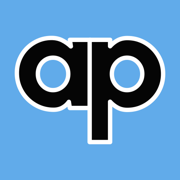
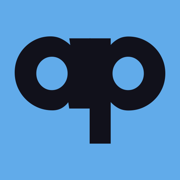
feat(www): apply approved three-color brand system
Implement Brand commit 10ab071 with semantic display, interaction, focus, surface, border, and muted roles. Replace bordered public marks with exact flat exports and remove retired aliases so light and dark public surfaces keep the approved contrast hierarchy.

Changed region(s): [[0.0556, 0.1944, 0.9444, 0.8056], [0.1667, 0.2778, 0.4167, 0.5278], [0.5833, 0.2778, 0.8333, 0.5278]]

diff --git a/apps/www/src/styles/global.css b/apps/www/src/styles/global.css
@@ -1,7 +1,6 @@
 @import "@anipotts/styles/tokens-www.css";
 @import "@fontsource-variable/instrument-sans";
 @import "@fontsource/urbanist/latin-900.css";
-@import "@fontsource/geist-sans";
 @import "@fontsource-variable/jetbrains-mono";
 
 :root {
@@ -17,10 +16,10 @@
   --astro-code-token-comment: var(--ink-muted);
   --astro-code-token-keyword: var(--ink-muted);
   --astro-code-token-parameter: var(--ink);
-  --astro-code-token-function: var(--accent);
+  --astro-code-token-function: var(--interactive);
   --astro-code-token-string-expression: var(--ink-muted);
   --astro-code-token-punctuation: var(--ink-muted);
-  --astro-code-token-link: var(--accent);
+  --astro-code-token-link: var(--interactive);
 }
 
 * {
@@ -51,8 +50,8 @@ body {
 }
 
 ::selection {
-  background: var(--accent);
-  color: var(--bg);
+  background: var(--interactive);
+  color: var(--interactive-ink);
 }
 
 a {
@@ -68,6 +67,10 @@ h3 {
   margin: 0;
   letter-spacing: 0;
   font-synthesis: none;
+}
+
+h1 {
+  color: var(--brand-display);
 }
 
 /* one orchestrated reveal on first paint. opacity:0 stays INSIDE the
@@ -131,6 +134,10 @@ h3 {
   color: var(--ink-muted);
 }
 
+h2.section-label {
+  color: var(--ink);
+}
+
 .hero-title {
   font-size: var(--p-hero);
   letter-spacing: 0;
@@ -155,7 +162,7 @@ h3 {
 }
 
 .accent-link {
-  color: var(--accent);
+  color: var(--interactive);
   text-decoration: none;
 }
 
@@ -172,7 +179,7 @@ h3 {
 }
 
 .quiet-link:hover {
-  color: var(--accent);
+  color: var(--interactive);
 }
 
 /* post-list row: fill on hover marks the row, never a line */
@@ -190,7 +197,7 @@ h3 {
 }
 
 .row-link:hover .row-title {
-  color: var(--accent);
+  color: var(--ink);
 }
 
 .row-title {
@@ -211,8 +218,8 @@ h3 {
 
 .pill {
   display: inline-block;
-  background: var(--accent-soft);
-  color: var(--accent);
+  background: var(--surface);
+  color: var(--ink);
   border-radius: 99px;
   padding: 0.15rem 0.6rem;
   font-family: var(--sans);
@@ -266,19 +273,19 @@ h3 {
 
 .field:focus {
   outline: none;
-  box-shadow: 0 0 0 2px var(--accent);
+  box-shadow: 0 0 0 2px var(--focus);
 }
 
 .field::placeholder {
   color: var(--ink-muted);
 }
 
-button.fill {
+.fill {
   font-family: var(--sans);
   font-weight: 500;
   font-size: var(--p-small);
-  background: var(--accent);
-  color: var(--bg);
+  background: var(--interactive);
+  color: var(--interactive-ink);
   border: 0;
   border-radius: 0.5rem;
   min-height: 44px;
@@ -305,8 +312,8 @@ button.fill:disabled {
 }
 
 .chip[aria-pressed="true"] {
-  background: var(--accent-soft);
-  color: var(--accent);
+  background: var(--interactive);
+  color: var(--interactive-ink);
 }
 
 @media (max-width: 720px) {
@@ -364,7 +371,7 @@ button.fill:disabled {
 }
 
 .article-body a {
-  color: var(--accent);
+  color: var(--interactive);
   text-decoration: underline;
   text-underline-offset: 0.18em;
   text-decoration-thickness: 0.06em;

diff --git a/packages/styles/src/tokens-www.css b/packages/styles/src/tokens-www.css
@@ -3,6 +3,10 @@
    code and technical data. Urbanist remains inside the exported brand assets. */
 
 :root {
+  --brand-dark-blue: #11111b;
+  --brand-blue: #61abea;
+  --brand-white: #ffffff;
+
   --sans:
     "Instrument Sans Variable", "Instrument Sans", -apple-system,
     BlinkMacSystemFont, "SF Pro Text", system-ui, sans-serif;
@@ -10,13 +14,18 @@
     "JetBrains Mono Variable", "JetBrains Mono", ui-monospace, "SF Mono", Menlo,
     monospace;
 
-  --bg: #ffffff;
-  --surface: #f4f4f4;
-  --ink: #050505;
-  --ink-muted: #5f5f5f;
-  --accent: #61abea;
-  --accent-soft: rgba(97, 171, 234, 0.14);
-  --border: rgba(5, 5, 5, 0.12);
+  --bg: var(--brand-white);
+  --ink: var(--brand-dark-blue);
+  --brand-display: var(--brand-dark-blue);
+  --interactive: var(--brand-dark-blue);
+  --interactive-ink: var(--brand-white);
+  --focus: var(--brand-dark-blue);
+  --ink-muted: color-mix(in srgb, var(--ink) 64%, transparent);
+  --surface: color-mix(in srgb, var(--brand-dark-blue) 4%, var(--brand-white));
+  --border: color-mix(in srgb, var(--ink) 14%, transparent);
+  --border-strong: color-mix(in srgb, var(--ink) 28%, transparent);
+  --accent: var(--brand-blue);
+  --accent-soft: color-mix(in srgb, var(--brand-blue) 14%, transparent);
 
   --p-h1: clamp(2rem, 4vw, 2.9rem);
   --p-h2: clamp(1.5rem, 3vw, 2rem);
@@ -40,18 +49,16 @@
   --lh-tight: 1.1;
 }
 
-:root[data-font="geist"] {
-  --sans:
-    "Geist Sans", -apple-system, BlinkMacSystemFont, "SF Pro Text", system-ui,
-    sans-serif;
-}
-
 :root[data-theme="dark"] {
-  --bg: #11111b;
-  --surface: #1e1e2e;
-  --ink: #ffffff;
-  --ink-muted: #a3a3a3;
-  --accent: #61abea;
-  --accent-soft: rgba(97, 171, 234, 0.18);
-  --border: rgba(255, 255, 255, 0.14);
+  --bg: var(--brand-dark-blue);
+  --ink: var(--brand-white);
+  --brand-display: var(--brand-blue);
+  --interactive: var(--brand-blue);
+  --interactive-ink: var(--brand-dark-blue);
+  --focus: var(--brand-blue);
+  --ink-muted: color-mix(in srgb, var(--ink) 64%, transparent);
+  --surface: color-mix(in srgb, var(--brand-white) 6%, var(--brand-dark-blue));
+  --border: color-mix(in srgb, var(--ink) 14%, transparent);
+  --border-strong: color-mix(in srgb, var(--ink) 28%, transparent);
+  --accent-soft: color-mix(in srgb, var(--brand-blue) 18%, transparent);
 }

diff --git a/apps/www/src/pages/api/icon.ts b/apps/www/src/pages/api/icon.ts
@@ -6,8 +6,8 @@ export const prerender = false;
 export const GET: APIRoute = ({ url }) => {
   const dark = url.searchParams.get("theme") === "dark";
   const asset = dark
-    ? "/brand/favicon-dark.svg?v=20260715c"
-    : "/brand/favicon-light.svg?v=20260715c";
+    ? "/brand/ap-favicon-dark.svg?v=20260717"
+    : "/brand/ap-favicon-light.svg?v=20260717";
 
   return Response.redirect(new URL(asset, url), 307);
 };
